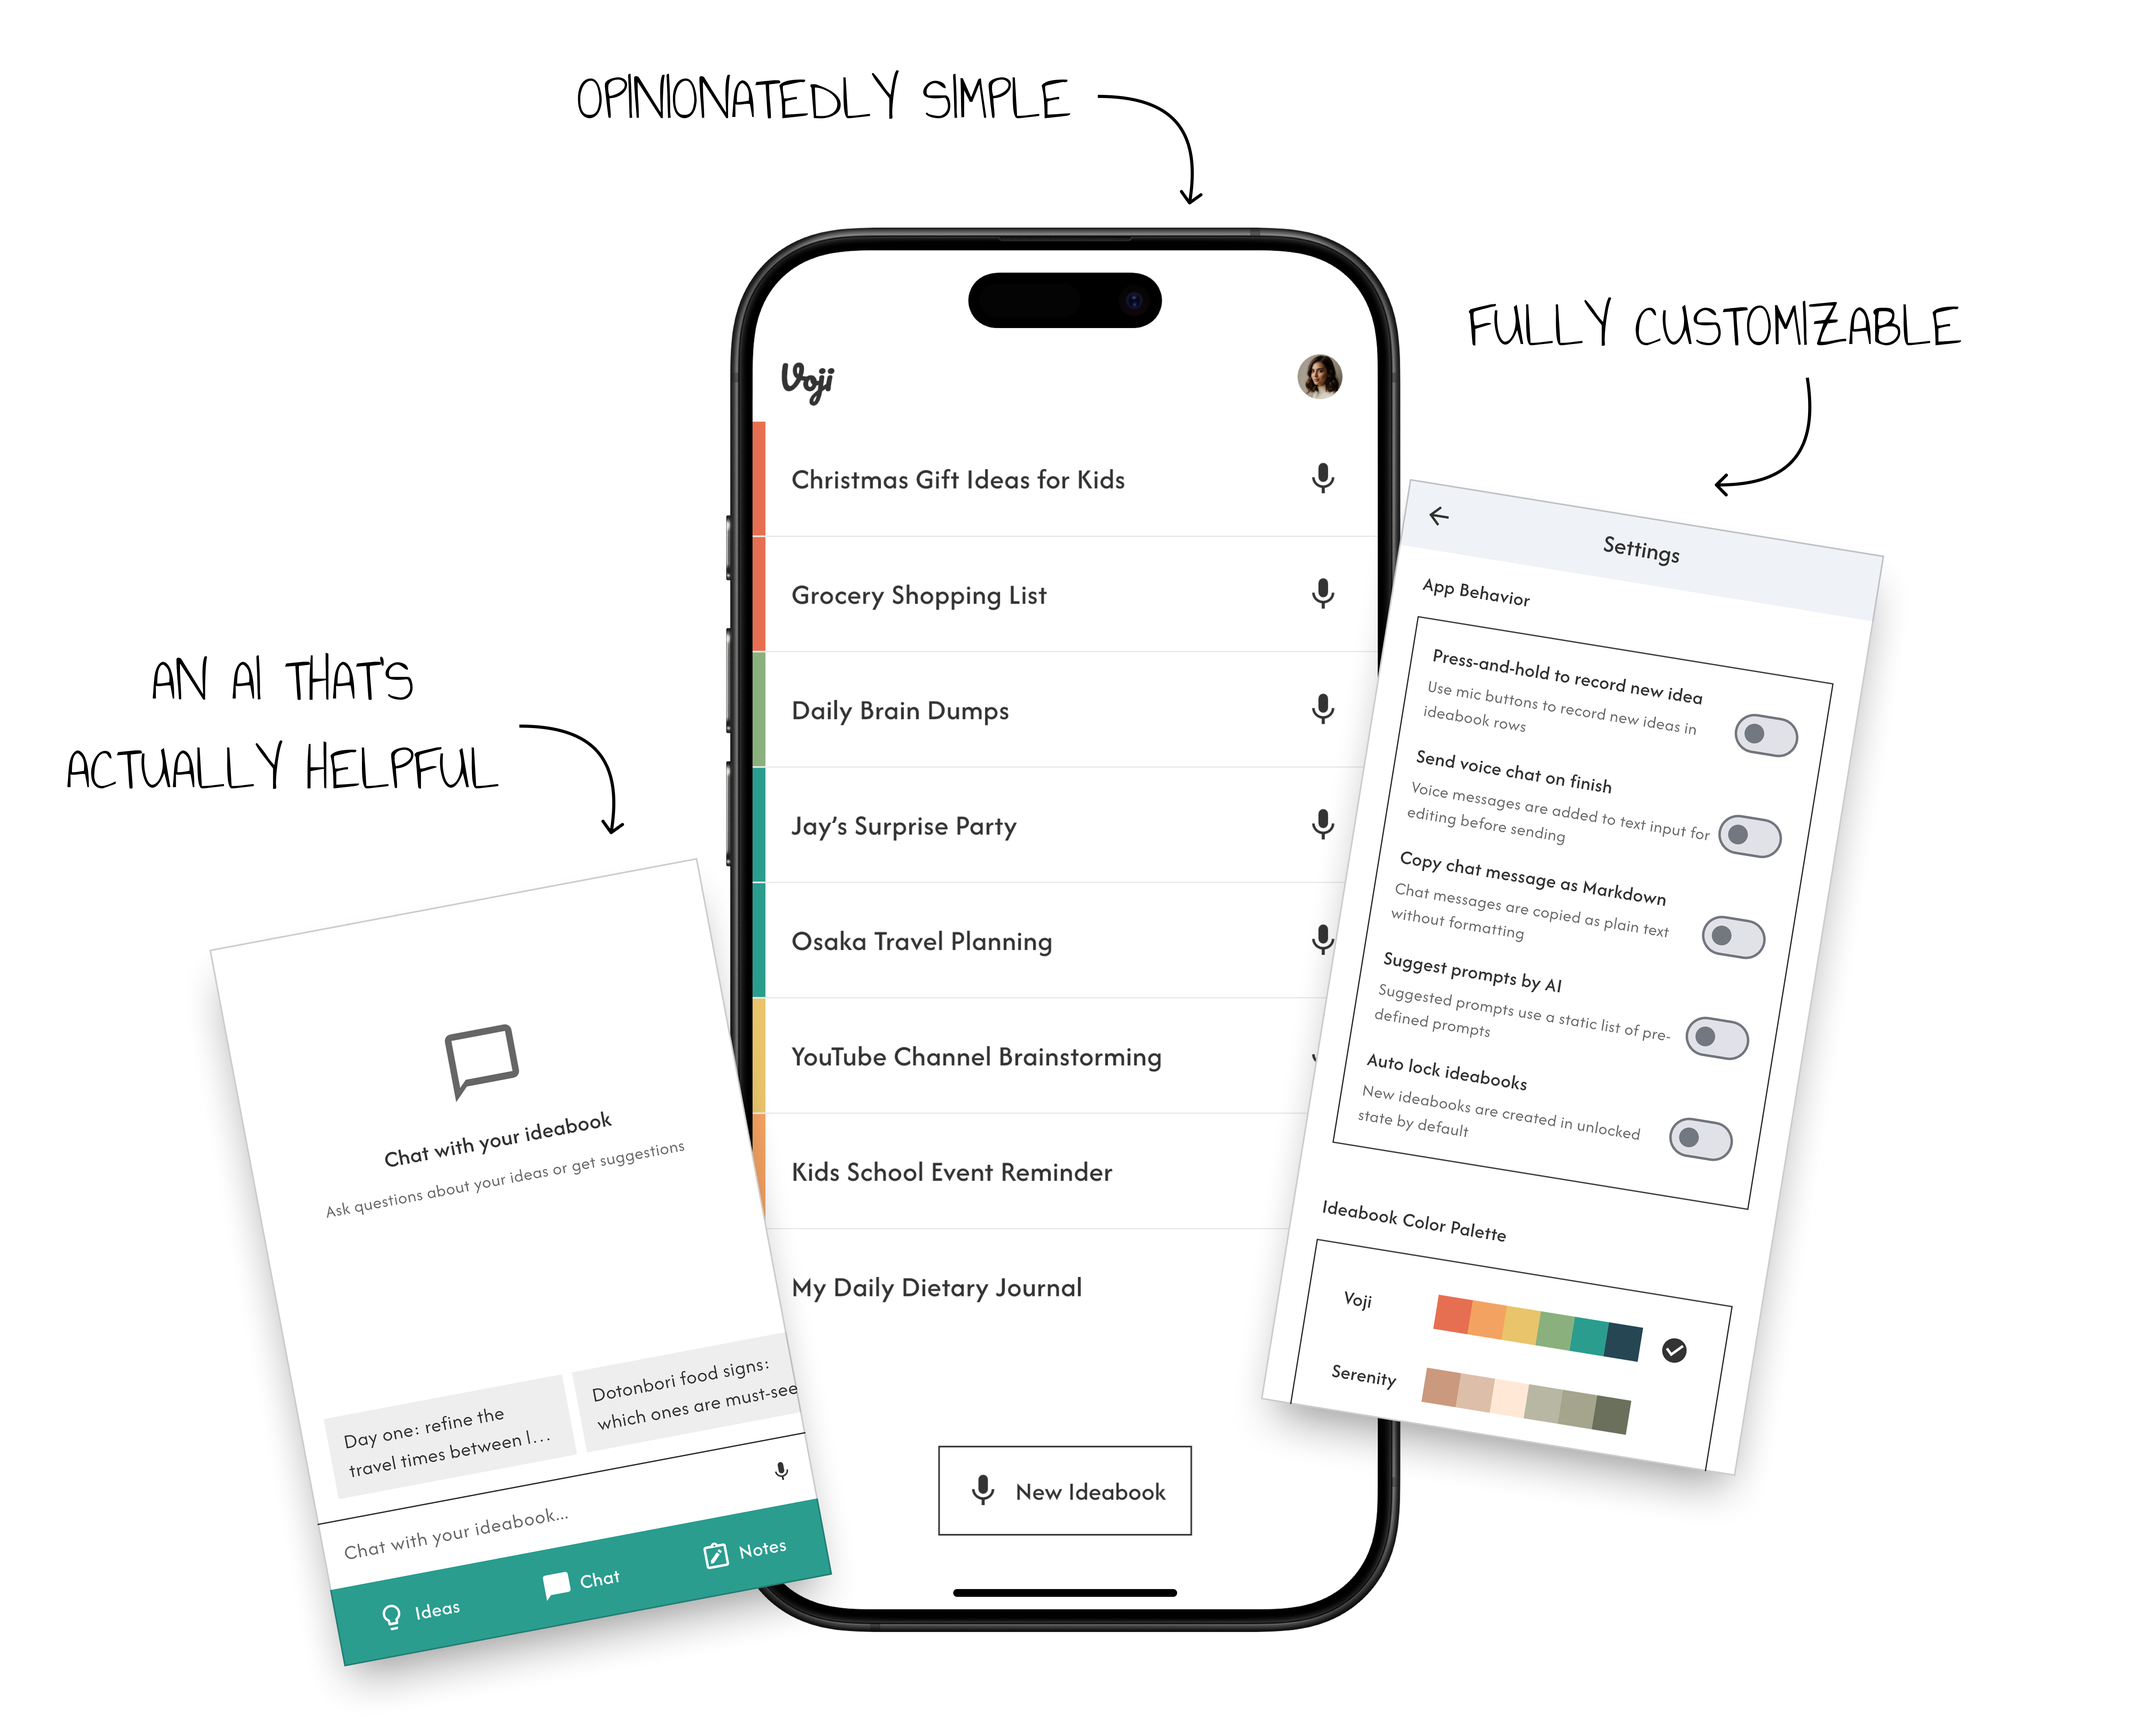
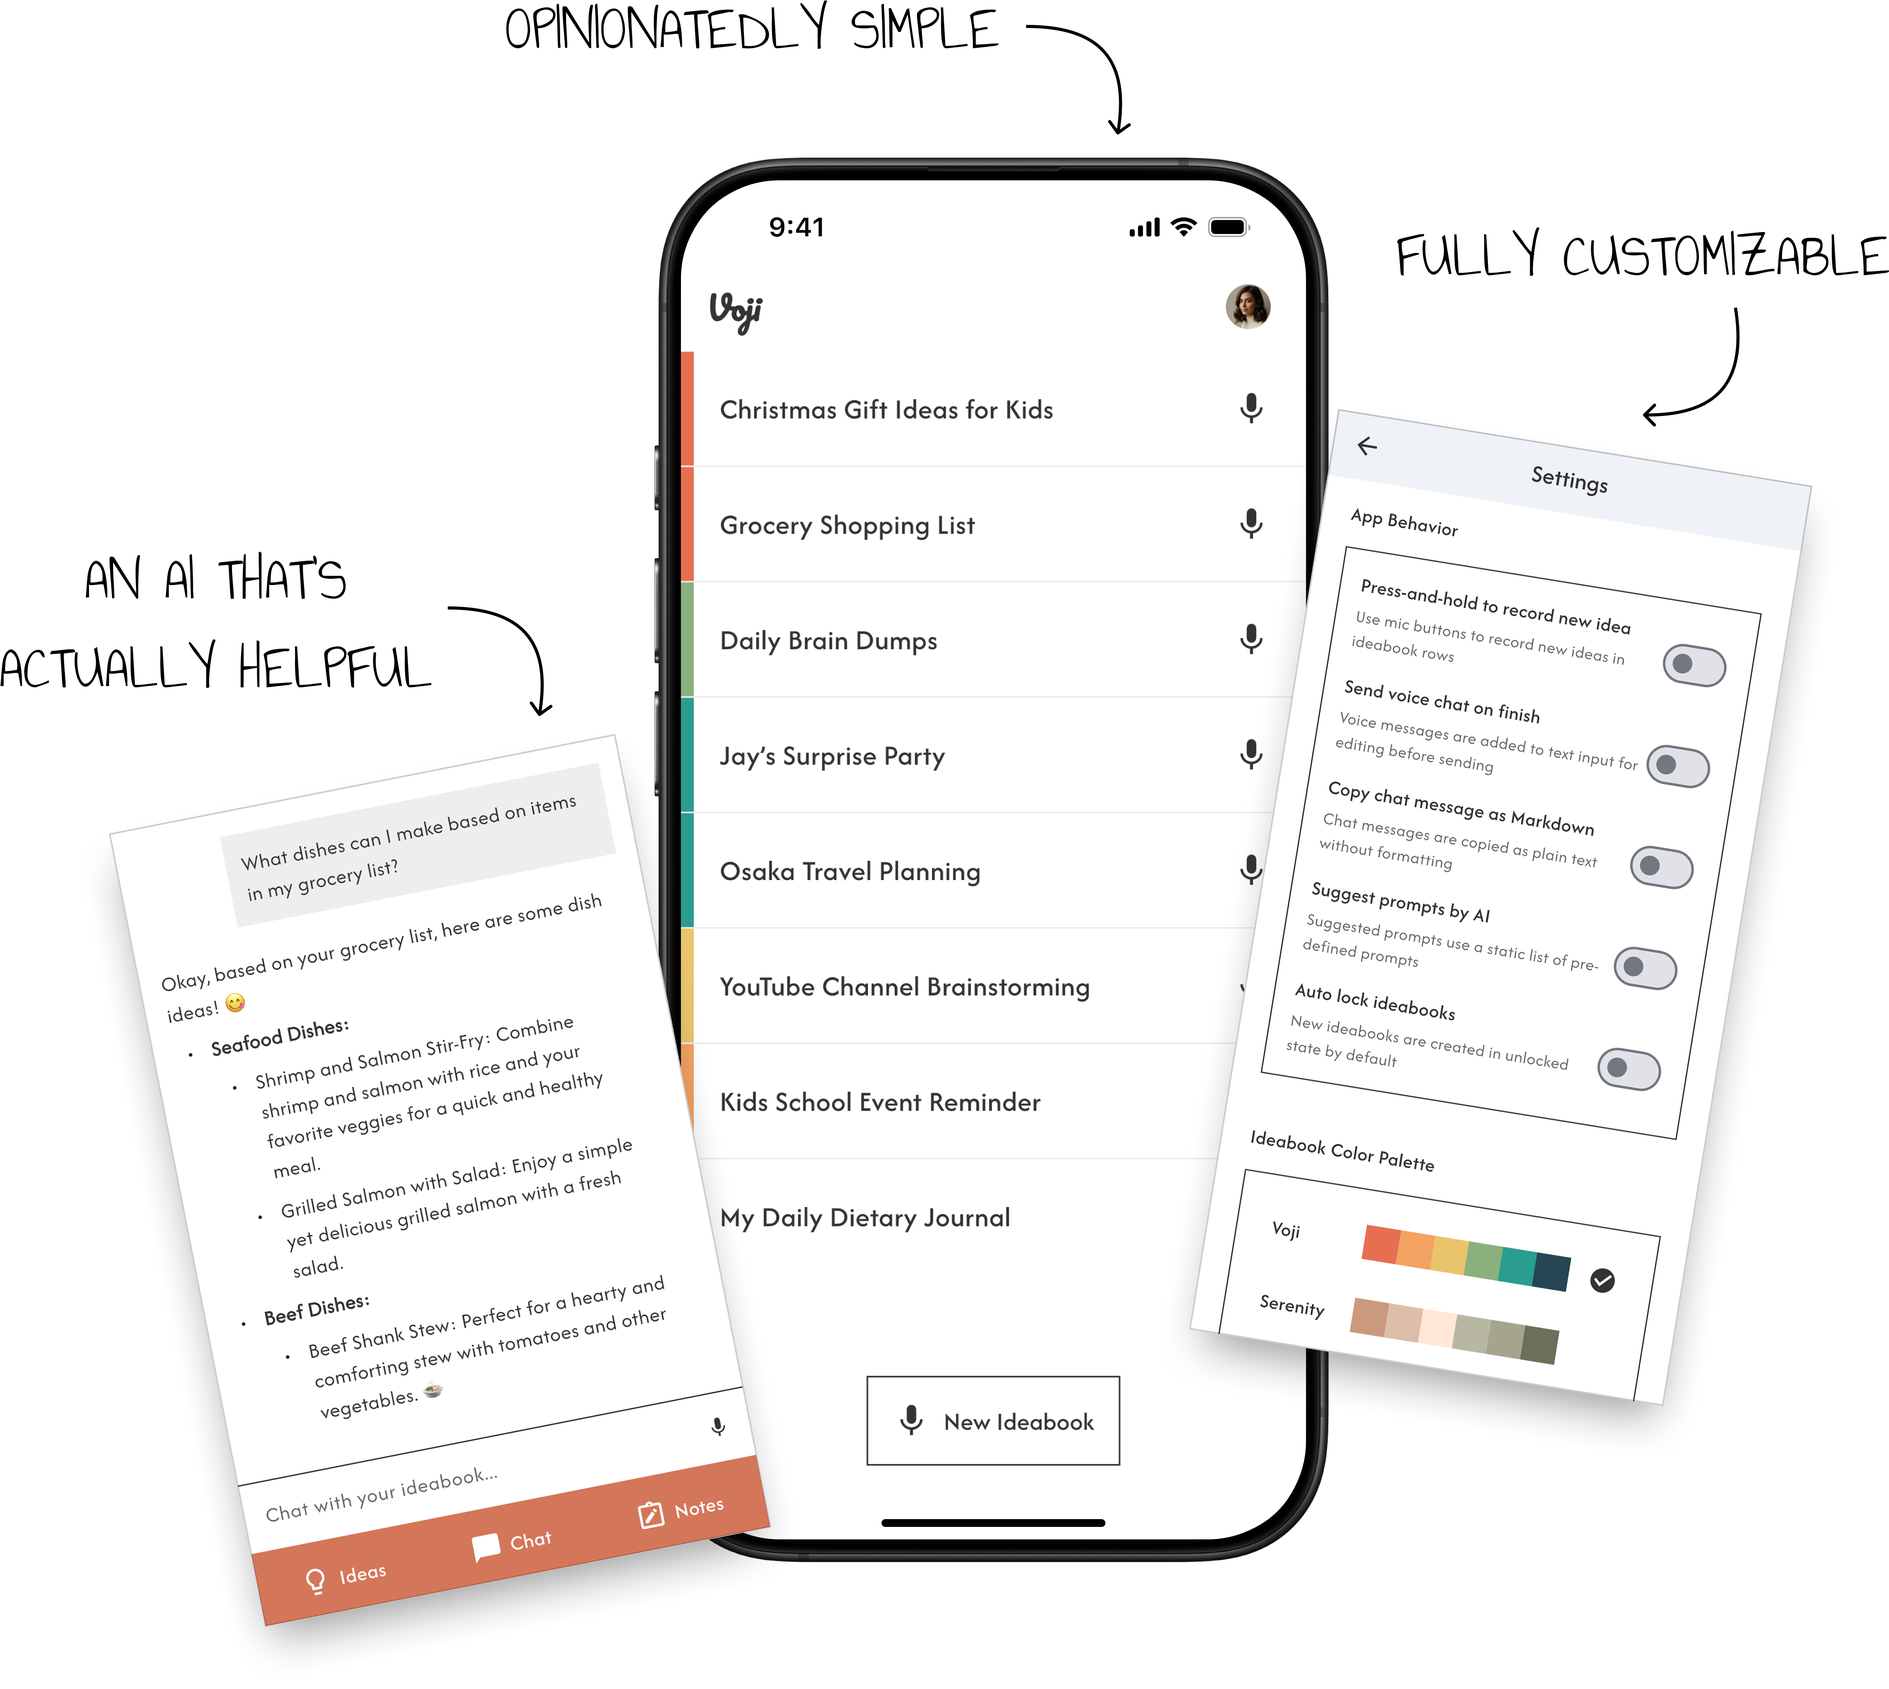
hero image

diff --git a/index.html b/index.html
@@ -108,16 +108,9 @@
 
                 <!-- Device Mockup -->
                 <div class="flex justify-center lg:justify-end animate-slide-in-right">
-                    <div class="phone-mockup">
-                        <div class="phone-screen">
-                            <div class="app-interface">
-                                <div class="record-button">
-                                    <div class="pulse-ring"></div>
-                                    <div class="record-icon">🎤</div>
-                                </div>
-                                <p class="record-text">Tap to Record</p>
-                            </div>
-                        </div>
+                    <div class="max-w-lg w-full">
+                        <img src="assets/hero.png" alt="Voji App Hero" 
+                             class="w-full h-auto rounded-2xl shadow-2xl hover:shadow-3xl transition-shadow duration-300">
                     </div>
                 </div>
             </div>
